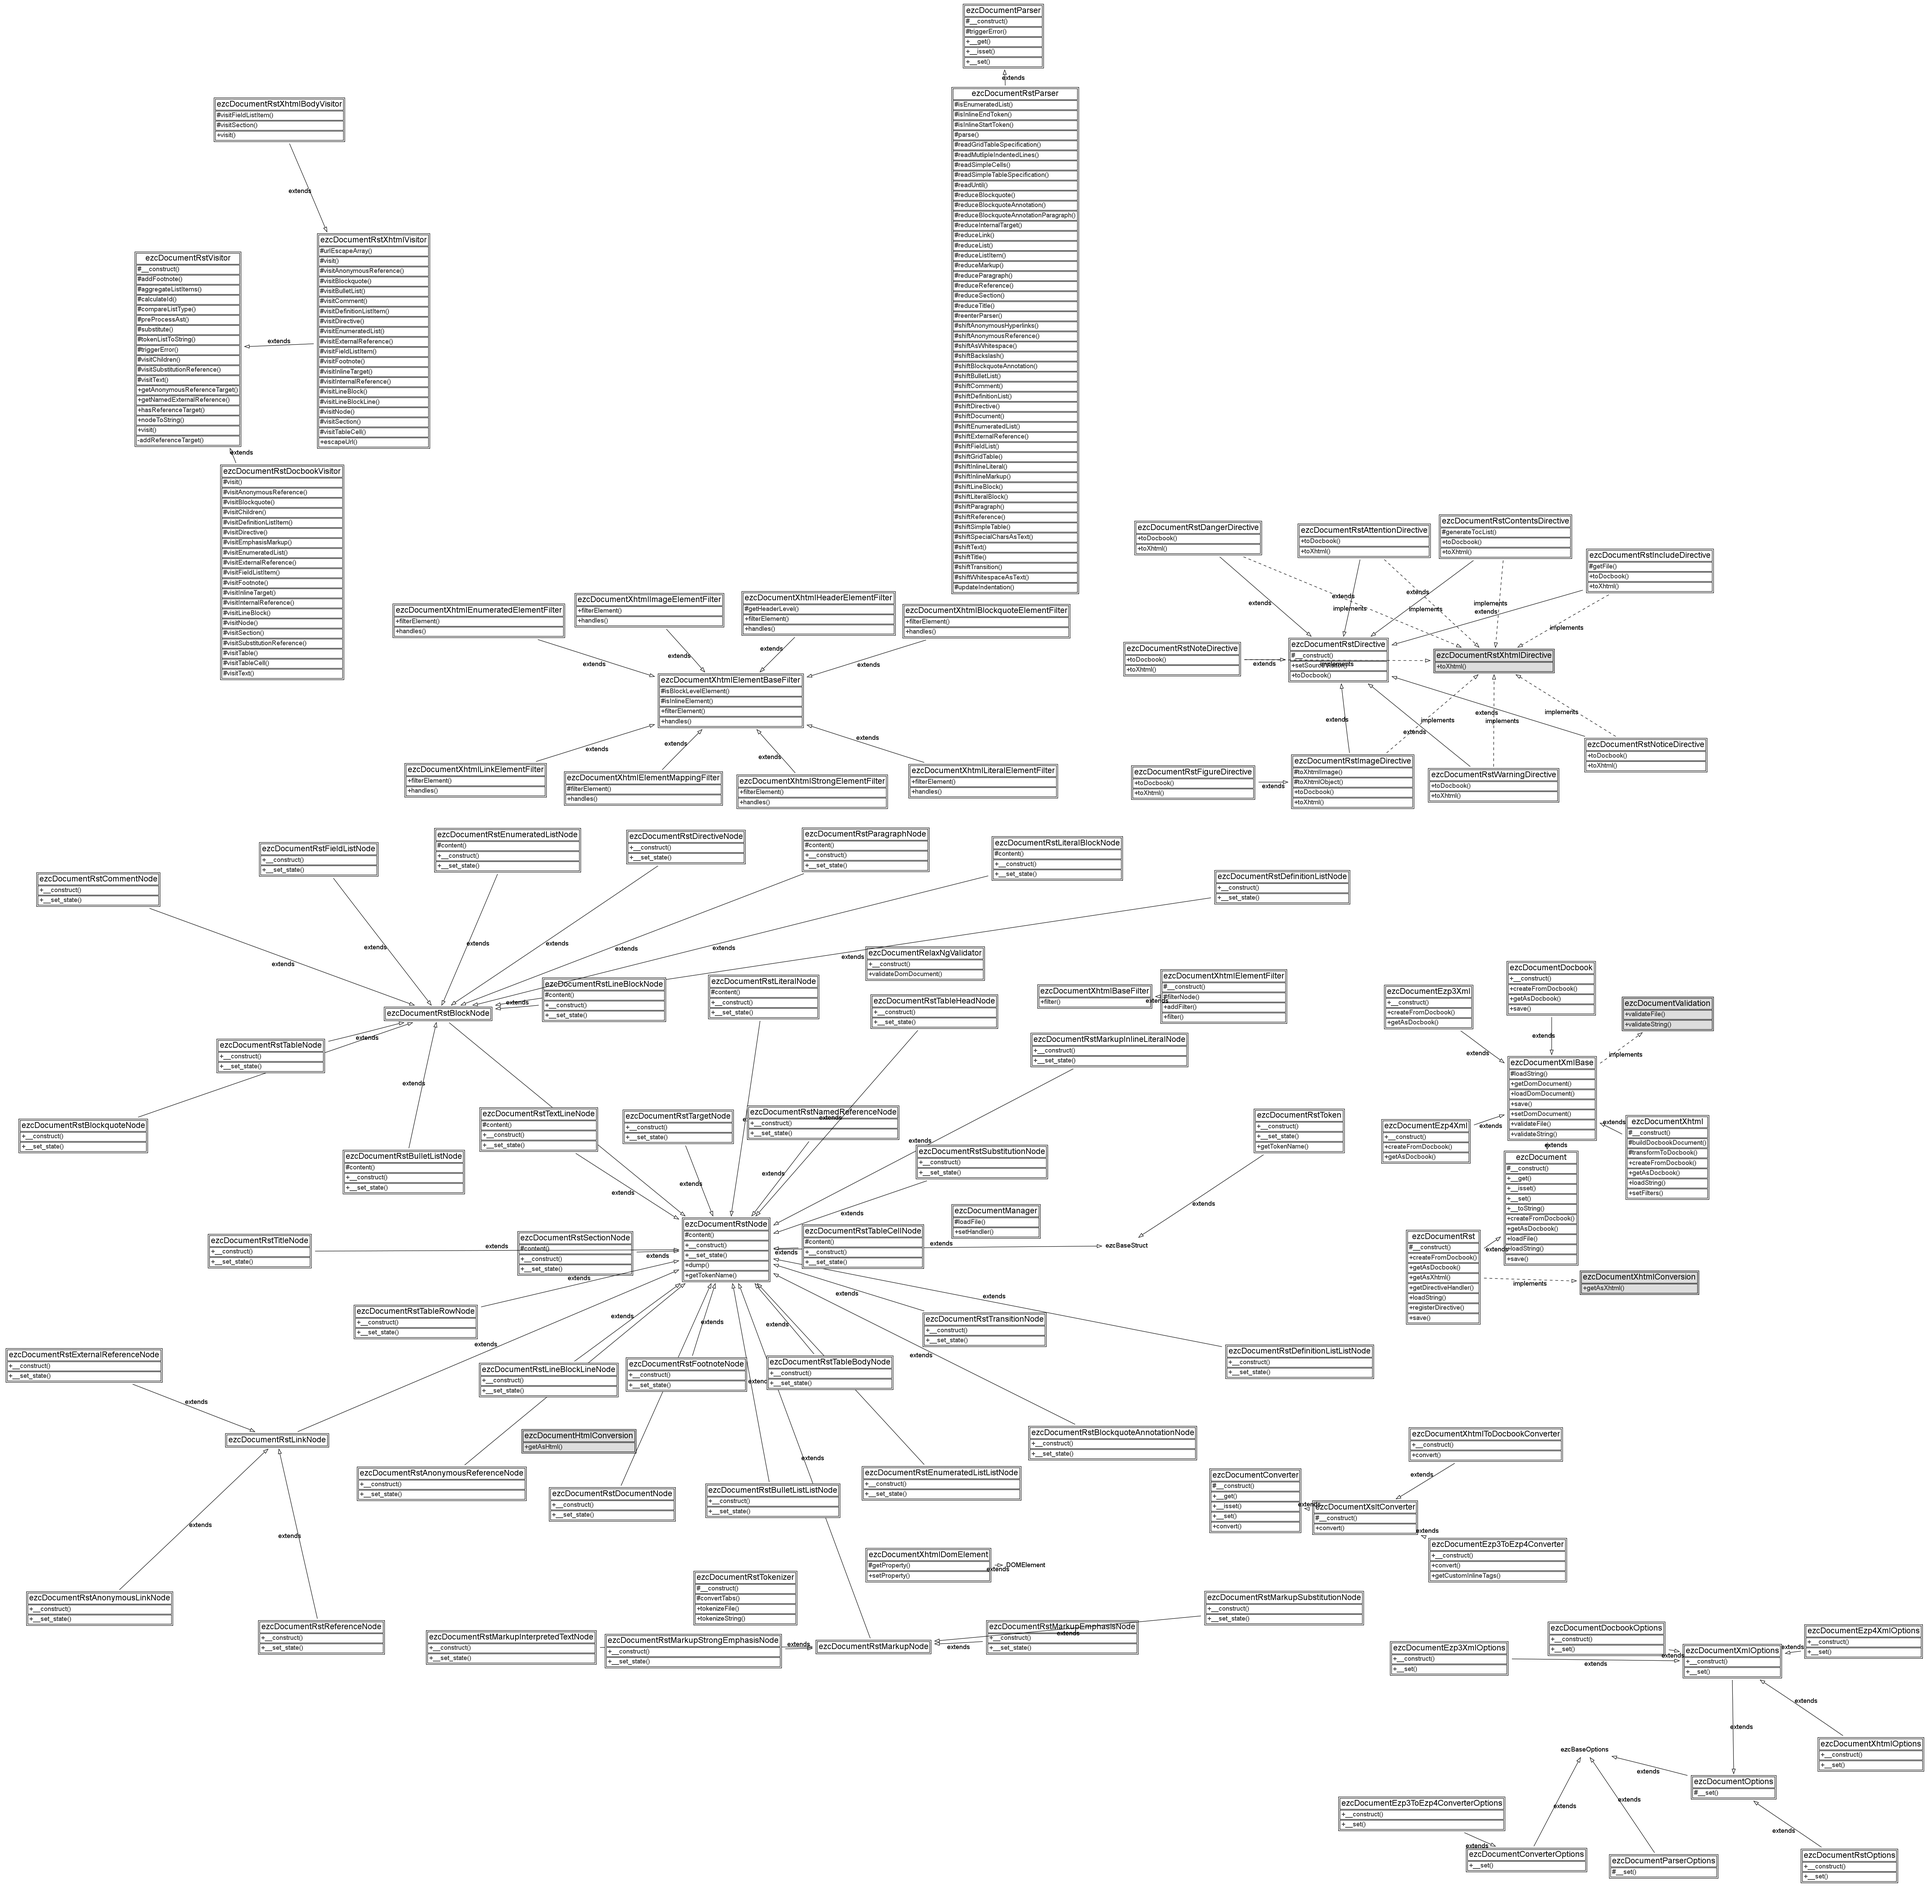
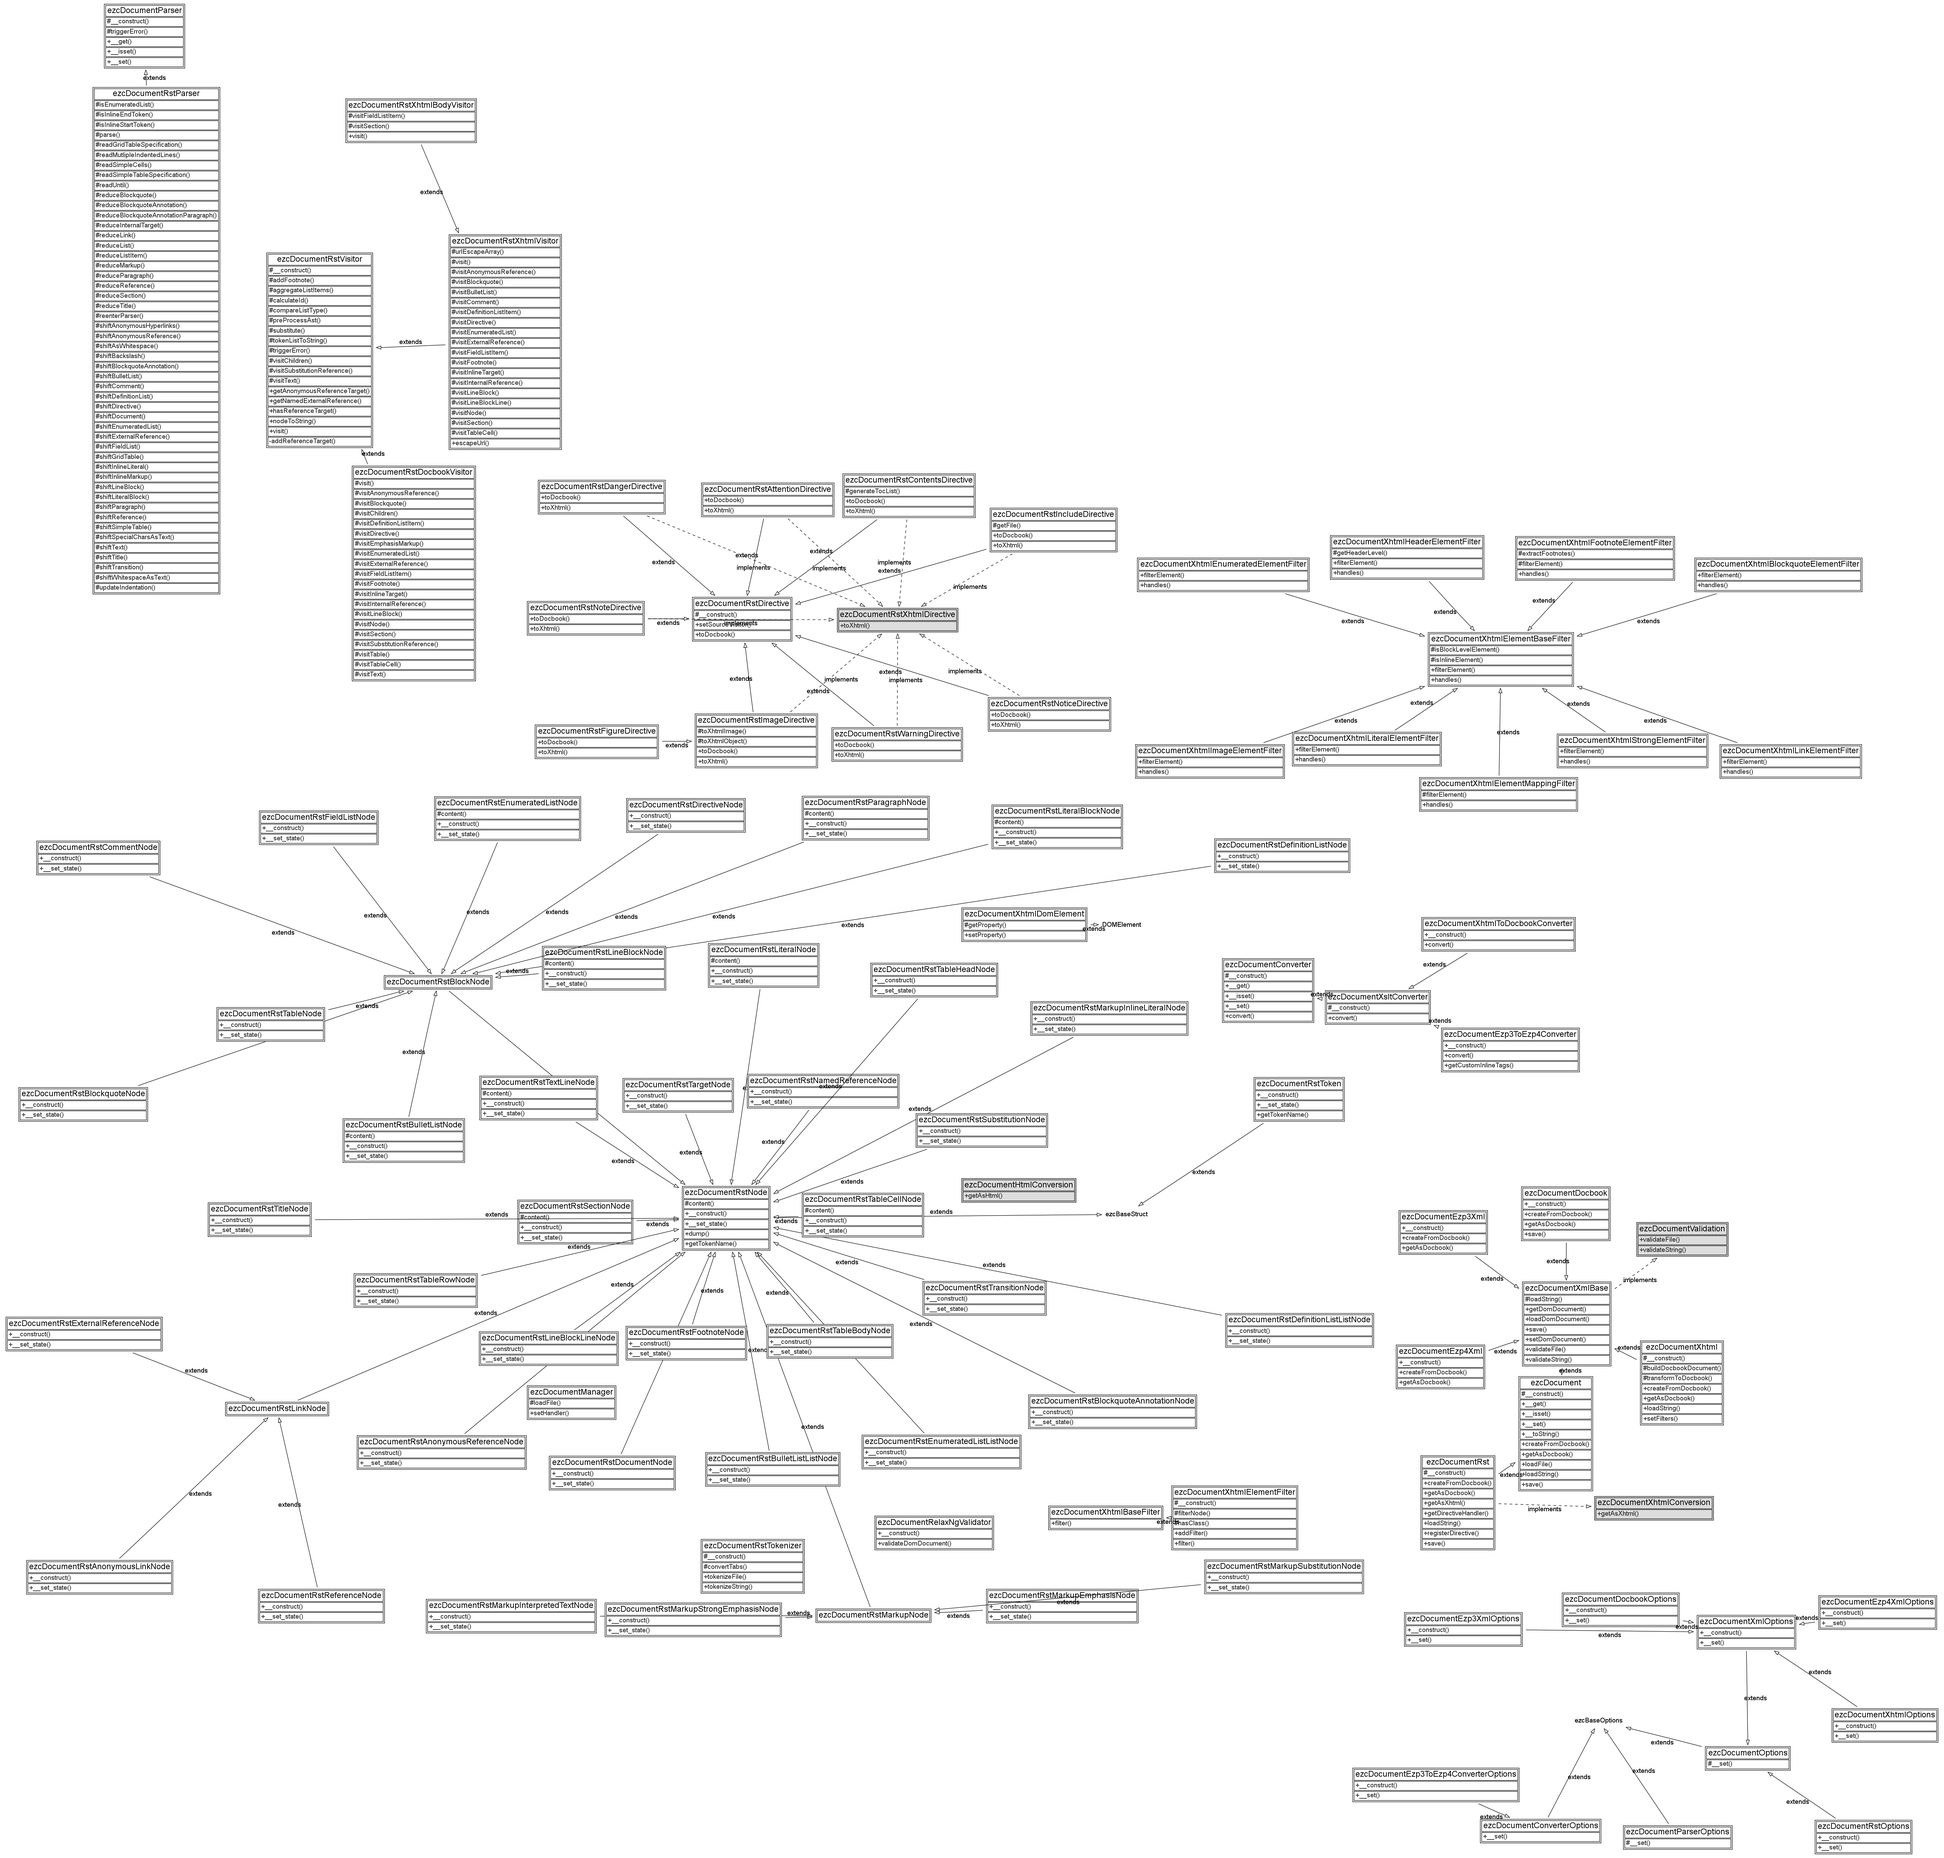
- Convert footnotes generated from RST back to docbook

diff --git a/tests/files/xhtml/rst_html/s_015_footnote_complex.html b/tests/files/xhtml/rst_html/s_015_footnote_complex.html
@@ -1,0 +1,29 @@
+<?xml version="1.0"?>
+<html xmlns="http://www.w3.org/1999/xhtml">
+  <head>
+    <meta name="generator" content="eZ Components; http://ezcomponents.org"/>
+    <title>Complex footnotes</title>
+  </head>
+  <body>
+    <h1>
+      <a name="complex_footnotes">Complex footnotes</a>
+    </h1>
+    <p><a href="#footnote_0_2" class="footnote">2</a> will be "2" (manually numbered), <a href="#footnote_0_3" class="footnote">3</a> will be "3" (anonymous auto-numbered), and <a href="#footnote_label_1" class="footnote">1</a> will be "1" (labeled auto-numbered).</p>
+    <ul class="footnotes">
+      <li>
+        <a name="footnote_0_2">2</a>
+        <p>This footnote is labeled manually, so its number is fixed.</p>
+      </li>
+      <li>
+        <a name="footnote_0_3">3</a>
+        <p>This footnote will be labeled "3".  It is the second auto-numbered footnote, but footnote label "2" is already used.</p>
+      </li>
+    </ul>
+    <ul class="footnotes">
+      <li>
+        <a name="footnote_label_1">1</a>
+        <p>This autonumber-labeled footnote will be labeled "1". It is the first auto-numbered footnote and no other footnote with label "1" exists.  The order of the footnotes is used to determine numbering, not the order of the footnote references.</p>
+      </li>
+    </ul>
+  </body>
+</html>

diff --git a/src/document/xml/xhtml/filter/element/footnote.php b/src/document/xml/xhtml/filter/element/footnote.php
@@ -1,0 +1,141 @@
+<?php
+/**
+ * File containing the ezcDocumentXhtmlFootnoteElementFilter class
+ *
+ * @package Document
+ * @version //autogen//
+ * @copyright Copyright (C) 2005-2008 eZ systems as. All rights reserved.
+ * @license http://ez.no/licenses/new_bsd New BSD License
+ */
+
+/**
+ * Filter for XHtml footnotes, as generated by ezcDocument.
+ * 
+ * Footnotes, generated by the Document component itself, are links with the
+ * class footnote and a list at the bottom of the document, also with the class
+ * footnotes. Those should be converted back to Docbook footnotes.
+ *
+ * It is nearly impossible to generally filter footnote markup - if you come
+ * across some, feel free to provide another filter for that.
+ *
+ * @package Document
+ * @version //autogen//
+ */
+class ezcDocumentXhtmlFootnoteElementFilter extends ezcDocumentXhtmlElementBaseFilter
+{
+    /**
+     * Array with extracted footnotes
+     * 
+     * @var array
+     */
+    protected $footnotes = null;
+
+    /**
+     * Filter a single element
+     * 
+     * @param DOMElement $element 
+     * @return void
+     */
+    public function filterElement( DOMElement $element )
+    {
+        // Extract footnotes, if not done yet.
+        if ( $this->footnotes === null )
+        {
+            $this->extractFootnotes( $element );
+
+            if ( $this->footnotes === null )
+            {
+                // No footnotes could be extracted from the document, so we
+                // can't fetch the footnote text, just leave the element to the
+                // other filters.
+                return;
+            }
+        }
+
+        $footnoteName = trim( $element->textContent );
+        if ( !isset( $this->footnotes[$footnoteName] ) )
+        {
+            // We could ont find a footnote target for the current footnode, so
+            // just skip this one.
+            return;
+        }
+
+        // Finally create footnote from element
+        $element->setProperty( 'type', 'footnote' );
+        $element->setProperty( 'attributes', array() );
+
+        $paragraph = new ezcDocumentXhtmlDomElement( 'span', $this->footnotes[$footnoteName] );
+        $element->appendChild( $paragraph );
+        $paragraph->setProperty( 'type', 'para' );
+    }
+
+    /**
+     * Extract footnotes
+     *
+     * Extract footnotes from the given XHtml document.
+     * 
+     * @return void
+     */
+    protected function extractFootnotes( DOMElement $element )
+    {
+        $doc = $element->ownerDocument;
+
+        $xpath = new DOMXPath( $doc );
+        // We cannot use the normal way for finding elements (//ul), as the
+        // element may be part of some XHtml namespace or no namespace, which
+        // may vary. We just use the localname and check for the attribute,
+        // which still may give us false positives from unwanted namespaces. As
+        // those external namespaces are seldomly integrated with XHtml / HTML
+        // this should work in most cases.
+        $nodes = $xpath->query( '//*[( local-name() = "ul" ) and contains( @class, "footnote" )]' );
+
+        // From the found footnote lists, we extract content in a way, which
+        // should work in most cases. The name is expected to be embedded in an
+        // a-tag, and the contents in paragraphs. After the extraction, we
+        // remove the list, as the contents will be embedded later at the
+        // footnote references.
+        //
+        // The footnote extraction is still quite volatile as it is.
+        foreach ( $nodes as $node )
+        {
+            // Extract all paragraphs, to get the footnote contents
+            foreach ( $xpath->query( '*[local-name() = "li"]', $node ) as $footnote )
+            {
+                // The footnote name should be embedded in the first a-tag, as
+                // it is a link target.
+                $footnoteName = trim( $xpath->query( '*[local-name() = "a"]', $footnote )->item( 0 )->textContent );
+
+
+                // All text embedded in paragraphs
+                $footnoteText = '';
+                foreach ( $xpath->query( '*[local-name() = "p"]', $footnote ) as $paragraph )
+                {
+                    $footnoteText .= $paragraph->textContent;
+                }
+
+                // Add footnote to list of footnotes
+                $this->footnotes[$footnoteName] = $footnoteText;
+            }
+
+            // Remove node
+            $node->parentNode->removeChild( $node );
+        }
+    }
+
+    /**
+     * Check if filter handles the current element
+     *
+     * Returns a boolean value, indicating weather this filter can handle
+     * the current element.
+     * 
+     * @param DOMElement $element 
+     * @return void
+     */
+    public function handles( DOMElement $element )
+    {
+        return ( ( strtolower( $element->tagName ) === 'a' ) &&
+                 $this->hasClass( $element, 'footnote' ) );
+    }
+}
+
+?>

diff --git a/src/document_autoload.php b/src/document_autoload.php
@@ -109,6 +109,7 @@ return array(
     'ezcDocumentXhtmlElementFilter'           => 'Document/document/xml/xhtml/filter/element.php',
     'ezcDocumentXhtmlElementMappingFilter'    => 'Document/document/xml/xhtml/filter/element/mapping.php',
     'ezcDocumentXhtmlEnumeratedElementFilter' => 'Document/document/xml/xhtml/filter/element/enumerated.php',
+    'ezcDocumentXhtmlFootnoteElementFilter'   => 'Document/document/xml/xhtml/filter/element/footnote.php',
     'ezcDocumentXhtmlHeaderElementFilter'     => 'Document/document/xml/xhtml/filter/element/header.php',
     'ezcDocumentXhtmlImageElementFilter'      => 'Document/document/xml/xhtml/filter/element/image.php',
     'ezcDocumentXhtmlLinkElementFilter'       => 'Document/document/xml/xhtml/filter/element/link.php',

diff --git a/src/document/xml/xhtml/filter/element/base.php b/src/document/xml/xhtml/filter/element/base.php
@@ -98,6 +98,26 @@ abstract class ezcDocumentXhtmlElementBaseFilter
             ( $this->isBlockLevelElement( $element->parentNode ) )
         );
     }
+
+    /**
+     * Check for element class
+     *
+     * Check if element has the given class in its class attribute. Returns
+     * true, if it is contained, or false, if not.
+     * 
+     * @param DOMElement $element 
+     * @param string $class 
+     * @return bool
+     */
+    protected function hasClass( DOMElement $element, $class )
+    {
+        return ( $element->hasAttribute( 'class' ) &&
+                 preg_match( 
+                    '((?:^|\s)' . preg_quote( $class ) . '(?:\s|$))', 
+                    $element->getAttribute( 'class' ) 
+                 )
+        );
+    }
 }
 
 ?>

diff --git a/src/document/xml/xhtml/filter/element.php b/src/document/xml/xhtml/filter/element.php
@@ -48,6 +48,7 @@ class ezcDocumentXhtmlElementFilter extends ezcDocumentXhtmlBaseFilter
             new ezcDocumentXhtmlBlockquoteElementFilter(),
             new ezcDocumentXhtmlEnumeratedElementFilter(),
             new ezcDocumentXhtmlImageElementFilter(),
+            new ezcDocumentXhtmlFootnoteElementFilter(),
         );
     }
 

diff --git a/tests/document_xhtml_docbook_tests.php b/tests/document_xhtml_docbook_tests.php
@@ -44,7 +44,7 @@ class ezcDocumentXhtmlDocbookTests extends ezcTestCase
         }
 
 //        return self::$testDocuments;
-        return array_slice( self::$testDocuments, 0, 12 );
+        return array_slice( self::$testDocuments, 0, 13 );
     }
 
     /**
